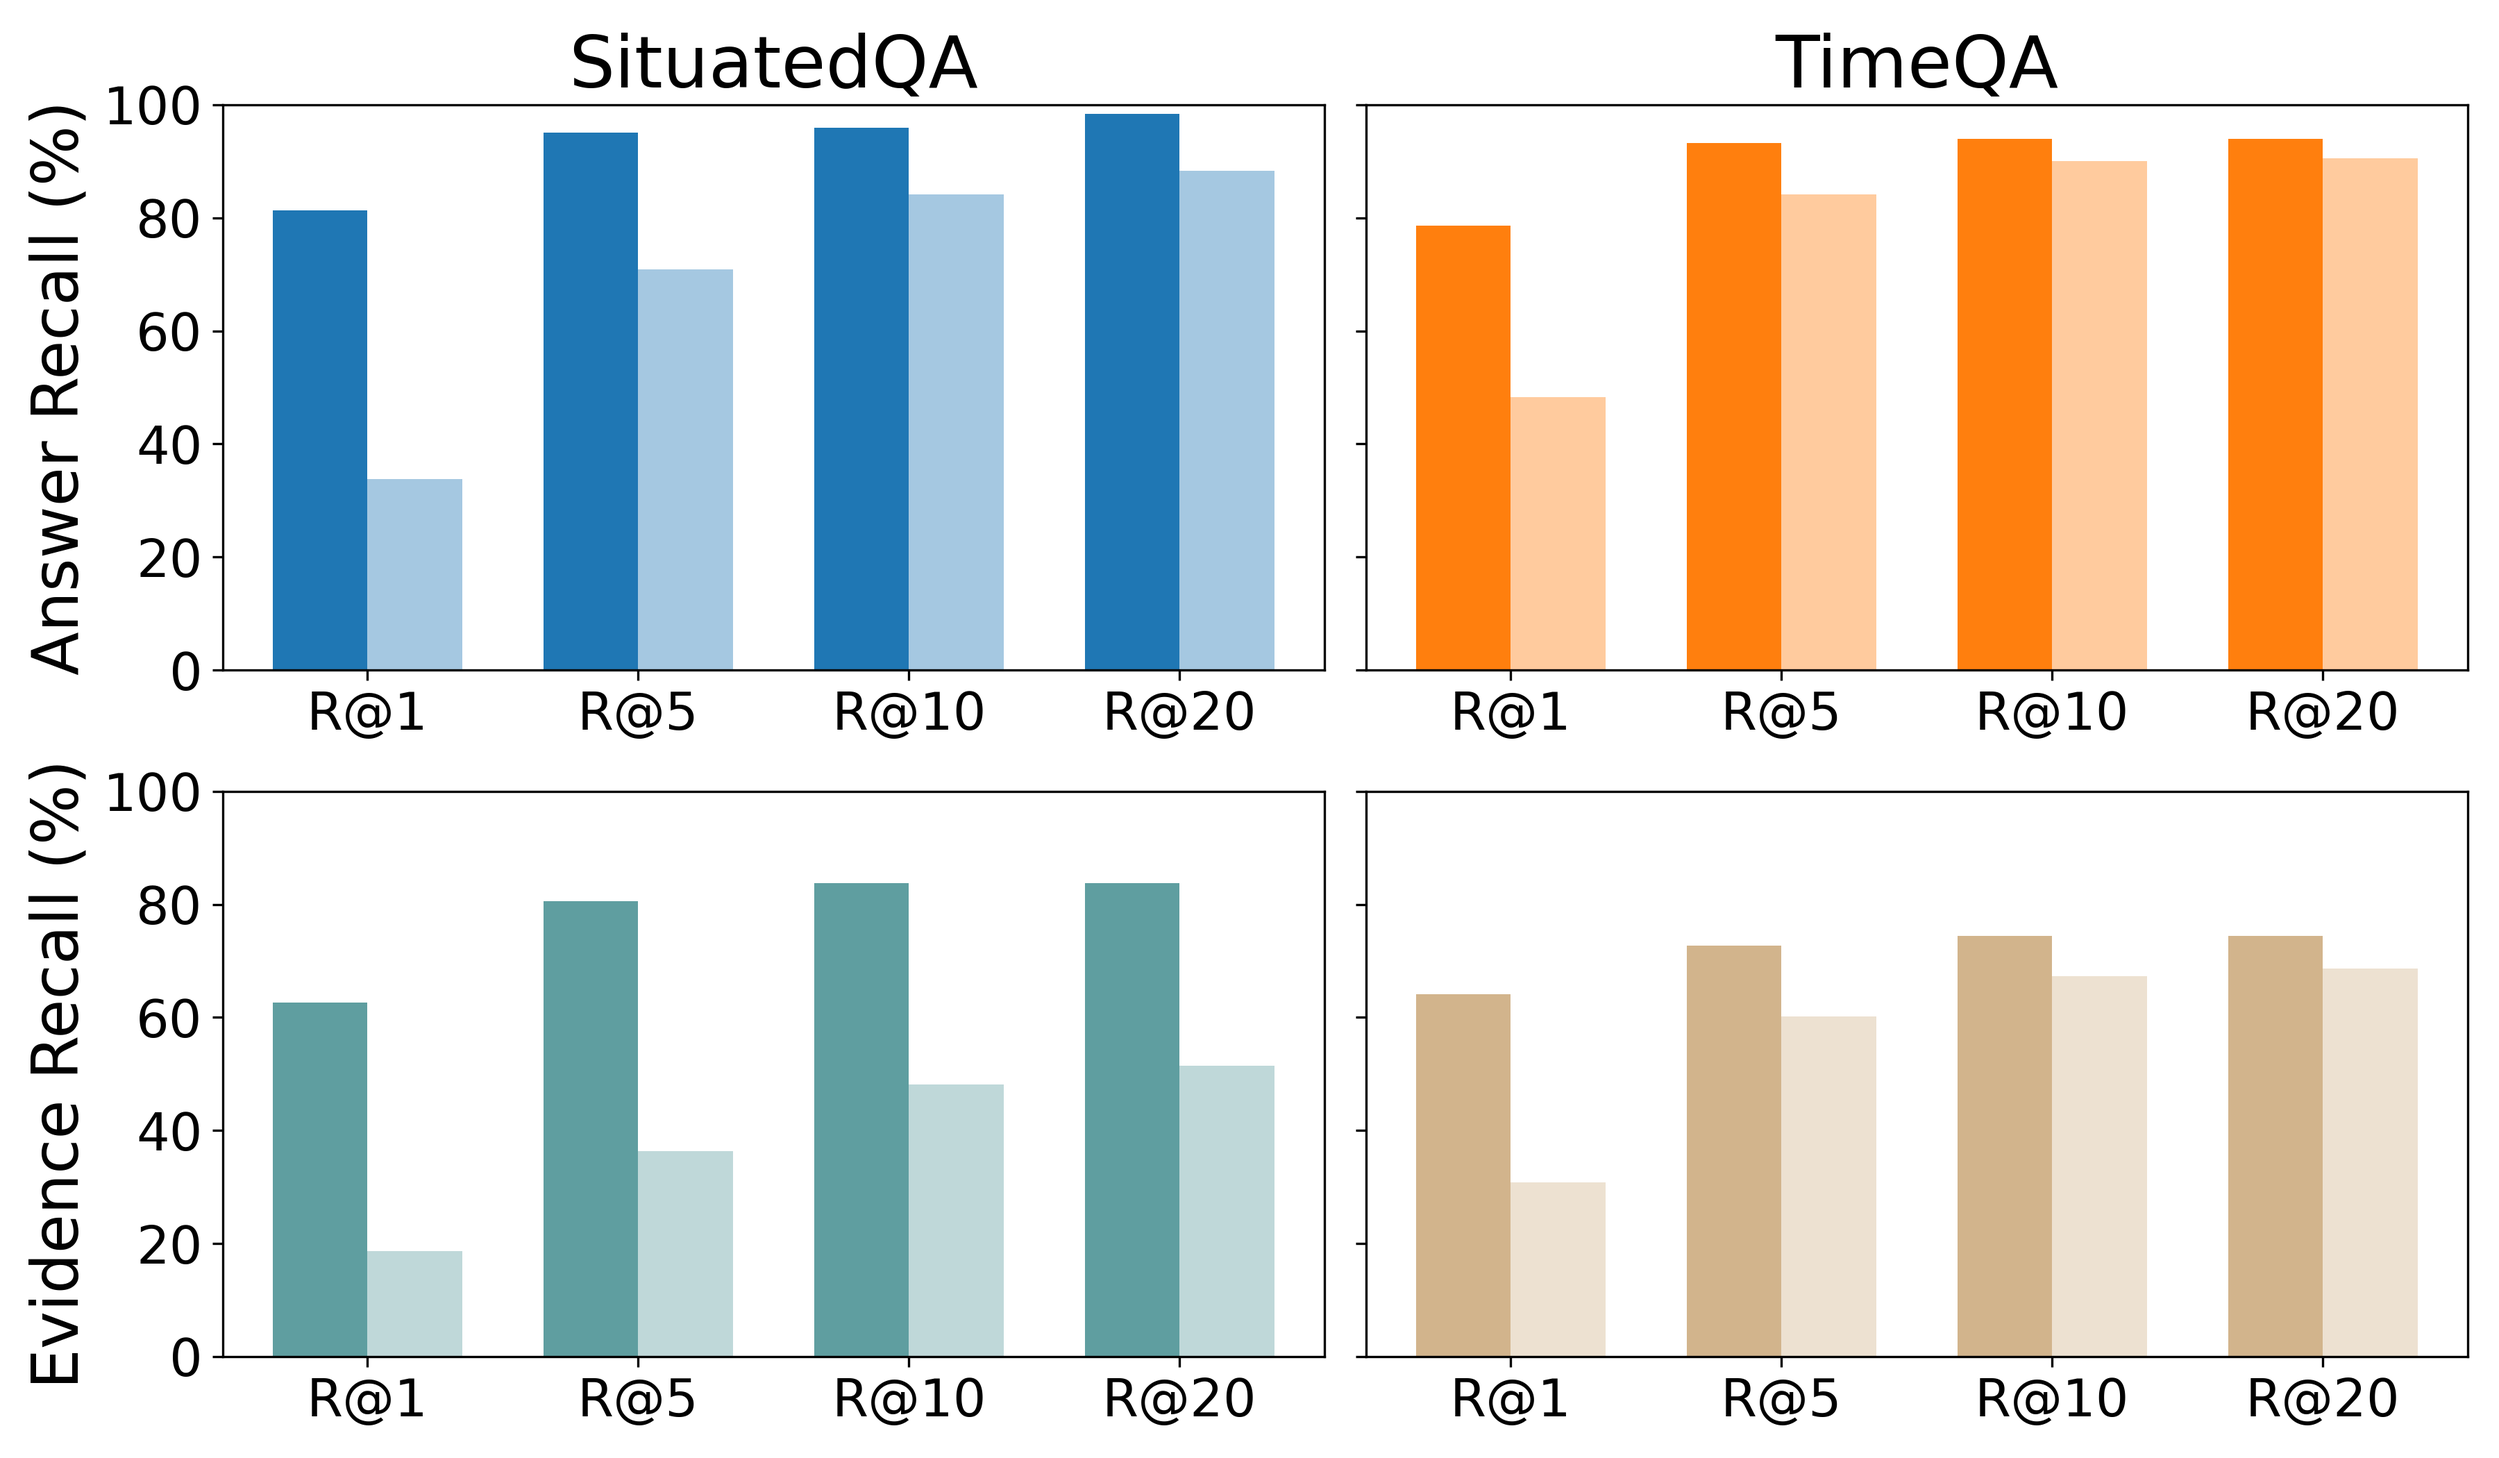
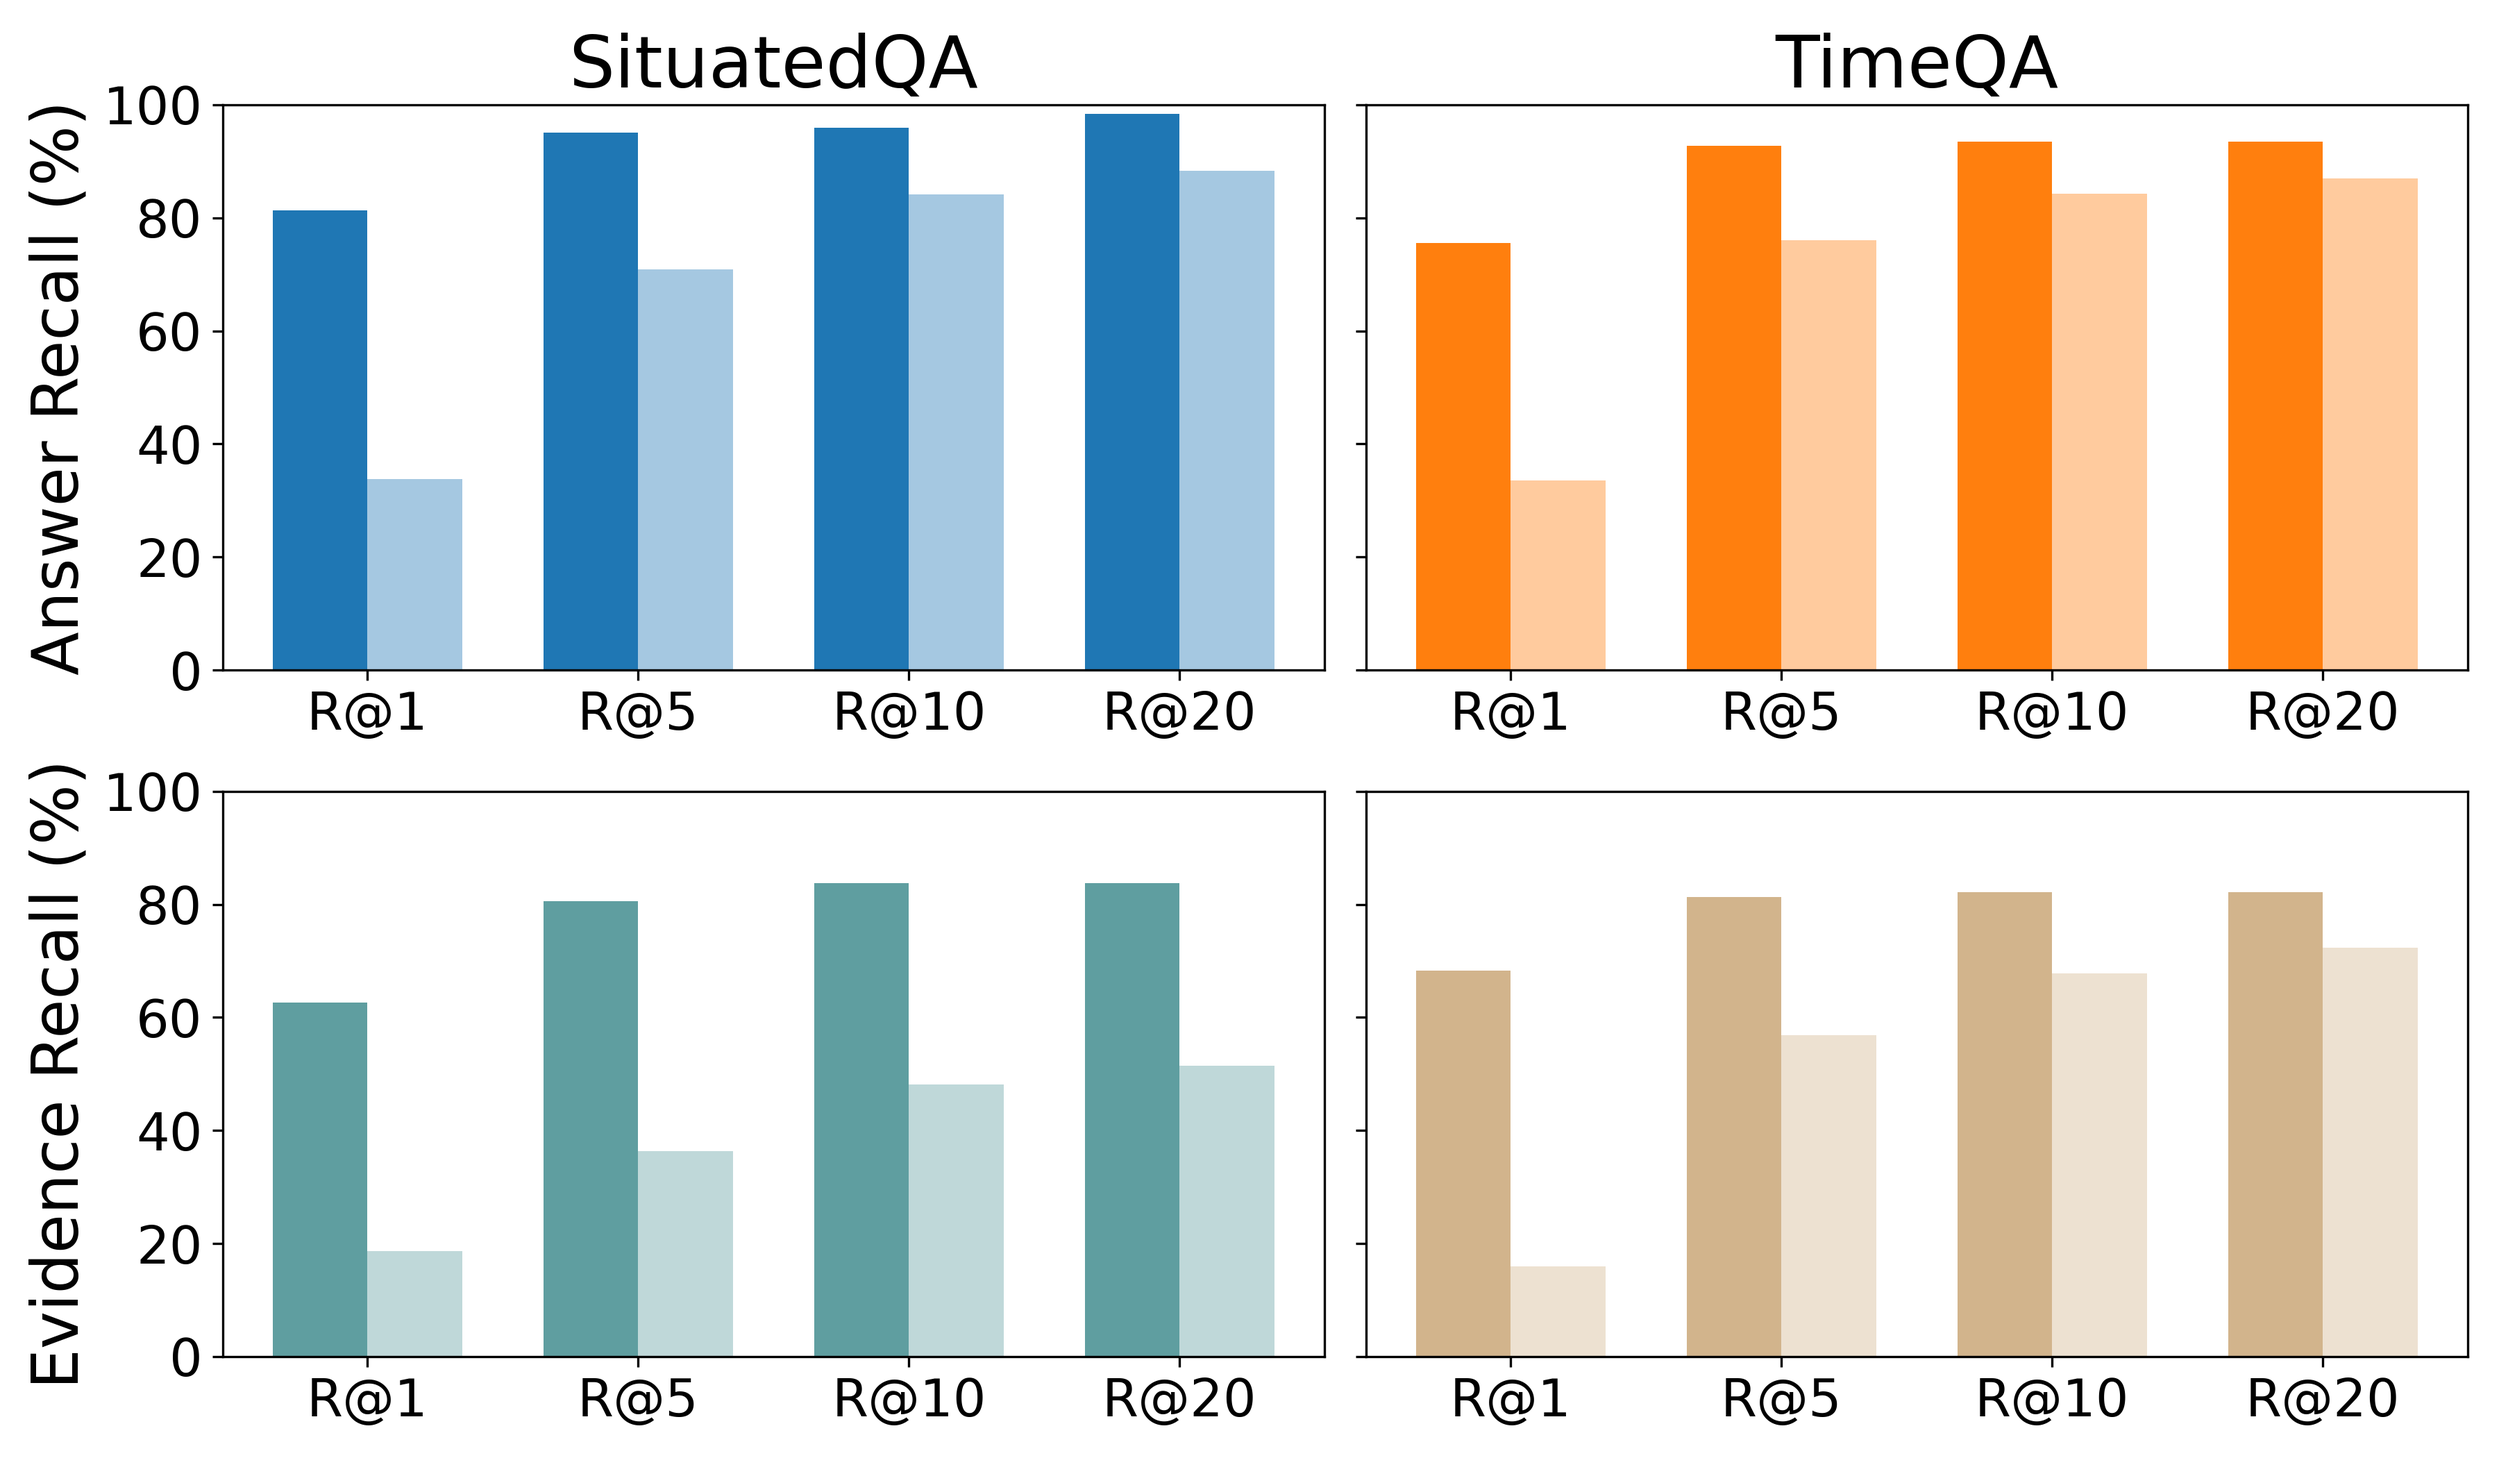
finalize dataset

diff --git a/check_retrieved.py b/check_retrieved.py
@@ -1,0 +1,75 @@
+import json
+from utils import *
+from metriever import separate_samples
+
+
+def print_top_ctx(ex, topk, ctx_key):
+    for i, ctx in enumerate(ex[ctx_key]):
+        text = ctx['title'] + ' ' + ctx['text']
+        answer = ex['answers']
+        print(f'== {i} ==')
+        print(text)
+        print('hasanswer: ', has_answer(answer, text, tokenizer))
+        if 'QFS_summary' in ctx:
+            print('QFS: ', ctx['QFS_summary'])
+        print('\n')
+        if i == topk:
+            break
+
+
+examples = load_json_file('./retrieved/situatedqa_contriever_metriever_minilm12_llama_8b_qfs5_outputs.json')
+examples_notime, examples_exact, examples_not_exact = separate_samples(examples)
+
+# for i,ex in enumerate(examples):
+#     print(f'\n---{i}---')
+#     question = ex['question']
+#     answer = ex['answers']
+#     print(question)
+#     print(answer,'\n')
+#     print_top_ctx(ex, 10, 'snt_hybrid_rank')
+
+
+print('\n**** Answers ****\n')
+print('~~~~~~~ctx_keyword_rank~~~~~~~~')
+eval_recall(examples_exact, ctxs_key='ctx_keyword_rank', ans_key='answers')
+print('~~~~~~~ctx_semantic_rank~~~~~~~~')
+eval_recall(examples_exact, ctxs_key='ctx_semantic_rank', ans_key='answers')
+print('~~~~~~~snt_keyword_rank~~~~~~~~')
+eval_recall(examples_exact, ctxs_key='snt_keyword_rank', ans_key='answers')
+print('~~~~~~~snt_hybrid_rank~~~~~~~~')
+eval_recall(examples_exact, ctxs_key='snt_hybrid_rank', ans_key='answers') 
+
+print('\n**** Gold Evidences ****\n')
+print('~~~~~~~ctx_keyword_rank~~~~~~~~')
+eval_recall(examples_exact, ctxs_key='ctx_keyword_rank', ans_key='gold_evidences')
+print('~~~~~~~ctx_semantic_rank~~~~~~~~')
+eval_recall(examples_exact, ctxs_key='ctx_semantic_rank', ans_key='gold_evidences')
+print('~~~~~~~snt_keyword_rank~~~~~~~~')
+eval_recall(examples_exact, ctxs_key='snt_keyword_rank', ans_key='gold_evidences')
+print('~~~~~~~snt_hybrid_rank~~~~~~~~')
+eval_recall(examples_exact, ctxs_key='snt_hybrid_rank', ans_key='gold_evidences') 
+
+print('=====================================')
+
+print('\n**** Answers ****\n')
+print('~~~~~~~ctx_keyword_rank~~~~~~~~')
+eval_recall(examples_not_exact, ctxs_key='ctx_keyword_rank', ans_key='answers')
+print('~~~~~~~ctx_semantic_rank~~~~~~~~')
+eval_recall(examples_not_exact, ctxs_key='ctx_semantic_rank', ans_key='answers')
+print('~~~~~~~snt_keyword_rank~~~~~~~~')
+eval_recall(examples_not_exact, ctxs_key='snt_keyword_rank', ans_key='answers')
+print('~~~~~~~snt_hybrid_rank~~~~~~~~')
+eval_recall(examples_not_exact, ctxs_key='snt_hybrid_rank', ans_key='answers') 
+
+print('\n**** Gold Evidences ****\n')
+print('~~~~~~~ctx_keyword_rank~~~~~~~~')
+eval_recall(examples_not_exact, ctxs_key='ctx_keyword_rank', ans_key='gold_evidences')
+print('~~~~~~~ctx_semantic_rank~~~~~~~~')
+eval_recall(examples_not_exact, ctxs_key='ctx_semantic_rank', ans_key='gold_evidences')
+print('~~~~~~~snt_keyword_rank~~~~~~~~')
+eval_recall(examples_not_exact, ctxs_key='snt_keyword_rank', ans_key='gold_evidences')
+print('~~~~~~~snt_hybrid_rank~~~~~~~~')
+eval_recall(examples_not_exact, ctxs_key='snt_hybrid_rank', ans_key='gold_evidences') 
+
+
+

diff --git a/reader.py b/reader.py
@@ -26,12 +26,11 @@ def TimeLLAMA():
 def main():
     parser = argparse.ArgumentParser(description="Reader")
     parser.add_argument('--max-examples', type=int, default=None)
-    parser.add_argument('--llm', type=str, default="llama_8b")
-    # parser.add_argument('--retriever-output', type=str, default="situatedqa_contriever_metriever_minilm12_llama_8b_qfs5_outputs.json")
-    parser.add_argument('--retriever-output', type=str, default="timeqa_contriever_minilm12_outputs.json")
-    parser.add_argument('--ctx-topk', type=int, default=5)
+    parser.add_argument('--retriever-output', type=str, default="situatedqa_contriever_metriever_minilm12_llama_8b_qfs5_outputs.json")
+    # parser.add_argument('--retriever-output', type=str, default="timeqa_contriever_minilm12_outputs.json")
+    parser.add_argument('--ctx-topk', type=int, default=10)
     parser.add_argument('--param-pred', type=bool, default=True)
-    parser.add_argument('--param-cot', type=bool, default=True)
+    parser.add_argument('--param-cot', type=bool, default=False)
     parser.add_argument('--not-save', type=bool, default=False)
     parser.add_argument('--save-note', type=str, default=None)
     parser.add_argument(
@@ -39,7 +38,7 @@ def main():
         choices=['bm25', 'contriever','hybrid'], 
         default='contriever', #
     )
-    parser.add_argument('--reader', type=str, default='llama', choices=['llama', 'timo', 'timellama'])
+    parser.add_argument('--reader', type=str, default='llama_70b', choices=['llama', 'timo', 'timellama'])
     parser.add_argument('--paradigm', type=str, default='concat', choices=['fusion', 'concat'])
 
 
@@ -47,7 +46,7 @@ def main():
     assert args.stage1_model in args.retriever_output
     if args.reader == 'llama':
         args.reader = "llama_8b"
-
+    
     if 'metriever' in args.retriever_output:
         args.ctx_key_s2 = 'snt_hybrid_rank'
     else:
@@ -74,7 +73,7 @@ def main():
         if flg:
             args.llm = LLM(args.l, tensor_parallel_size=2, quantization="AWQ", max_model_len=4096)
         else:
-            args.llm = LLM(args.l, tensor_parallel_size=1, dtype='float16', max_model_len=4096)
+            args.llm = LLM(args.l, tensor_parallel_size=2, dtype='float16', max_model_len=4096)
 
     # load examples
     if 'retrieved' not in args.retriever_output:
@@ -111,10 +110,11 @@ def main():
         for ex in examples:
             text = '\n\n'.join([ctx['title'] + ' | ' + ctx['text'].strip() for ctx in ex[tmp_key][:args.ctx_topk]])
             texts.append(text)
+            # prompt = c_cot_prompt(ex['question'], text)
             prompt = c_prompt(ex['question'], text)
             prompts.append(prompt)
 
-        rag_preds = call_pipeline(args, prompts)
+        rag_preds = call_pipeline(args, prompts, 500)
         print(f'{tmp_key} top {args.ctx_topk} contexts prediction finished.')
 
         for k, ex in enumerate(examples):

diff --git a/metriever.py b/metriever.py
@@ -36,7 +36,7 @@ def main():
     parser.add_argument(
         '--stage2-model', 
         choices=['metriever','minilm6','minilm12','bge','tinybert','bigegemma','monot5', None], 
-        default='minilm12', #
+        default='metriever', #
         # default='bge', #
         help='Choose a model for stage 2 re-ranking'
     )
@@ -49,15 +49,15 @@ def main():
     parser.add_argument('--contriever-output', type=str, default="./TempRAGEval/contriever_output/TempRAGEval.json")
     parser.add_argument('--bm25-output', type=str, default="./TempRAGEval/BM25_output/TempRAGEval.json")
     parser.add_argument('--ctx-topk', type=int, default=100)
-    parser.add_argument('--QFS-topk', type=int, default=0)
+    parser.add_argument('--QFS-topk', type=int, default=10)
     parser.add_argument('--snt-topk', type=int, default=200)
     parser.add_argument('--complete-ctx-text', type=bool, default=False)
     parser.add_argument('--hybrid-score', type=bool, default=True)
     parser.add_argument('--hybrid-base', type=float, default=0)
     parser.add_argument('--snt-with-title', type=bool, default=True)
-    parser.add_argument('--llm', type=str, default="llama_8b")
+    parser.add_argument('--llm', type=str, default="llama_70b")
     parser.add_argument('--save-note', type=str, default=None)
-    parser.add_argument('--subset', type=str, default='timeqa')
+    parser.add_argument('--subset', type=str, default='situatedqa')
     parser.add_argument('--save', type=bool, default=True)
     parser.add_argument('--load-keywords', type=bool, default=False)
 
@@ -385,6 +385,13 @@ def main():
         question_keyword_map = {}
         for ex in examples:
             normalized_question = ex['normalized_question']
+
+            if normalized_question.startswith('How many times'):
+                normalized_question = normalized_question.replace('How many times','When')
+            elif normalized_question.startswith('How many'):
+                normalized_question = normalized_question.replace('How many','What')
+            ex['normalized_question'] = normalized_question
+
             question_keyword_map.setdefault(normalized_question, [])
 
         print('\nstart extracting keywords using llm.')
@@ -430,12 +437,6 @@ def main():
         implicit_condition = ex['implicit_condition']
         time_relation_type = ex['time_relation_type']
         normalized_question = ex['normalized_question']
-
-        if normalized_question.startswith('How many times'):
-            normalized_question = normalized_question.replace('When')
-        elif normalized_question.startswith('How many'):
-            normalized_question = normalized_question.replace('What')
-        ex['normalized_question'] = normalized_question
 
         expanded_keyword_list, keyword_type_list = question_keyword_map[normalized_question]
         ex['expanded_keyword_list'] = expanded_keyword_list

diff --git a/plot_degrade.py b/plot_degrade.py
@@ -72,8 +72,8 @@ answer_recall_situatedqa_normal = [81.3, 95.1, 95.9, 98.4]    # Recall@1, Recall
 answer_recall_situatedqa_perturbed = [33.8, 70.9, 84.2, 88.3]  # Perturbed case
 
 # Performance on TimeQA (right subplot)
-answer_recall_timeqa_normal = [78.6, 93.2, 94.0, 94.0]        # Normal case
-answer_recall_timeqa_perturbed = [48.3, 84.2, 90.0, 90.5]     # Perturbed case
+answer_recall_timeqa_normal = [75.6, 92.7, 93.5, 93.5]        # Normal case
+answer_recall_timeqa_perturbed = [33.5, 76.1, 84.3, 87.0]     # Perturbed case
 
 # Gold Evidence Recall (for bottom row)
 # SituatedQA
@@ -81,8 +81,8 @@ gold_recall_situatedqa_normal = [62.6, 80.5, 83.7, 83.7]  # Gold Recall@1, @5, @
 gold_recall_situatedqa_perturbed = [18.7, 36.4, 48.1, 51.4]  # Perturbed case
 
 # TimeQA
-gold_recall_timeqa_normal = [64.1, 72.7, 74.4, 74.4]      # Normal case
-gold_recall_timeqa_perturbed = [30.8, 60.2, 67.3, 68.6]   # Perturbed case
+gold_recall_timeqa_normal = [68.3, 81.3, 82.1, 82.1]      # Normal case
+gold_recall_timeqa_perturbed = [16.0, 56.9, 67.8, 72.3]   # Perturbed case
 
 # Recall metric names
 recall_labels = ['R@1', 'R@5', 'R@10', 'R@20']
